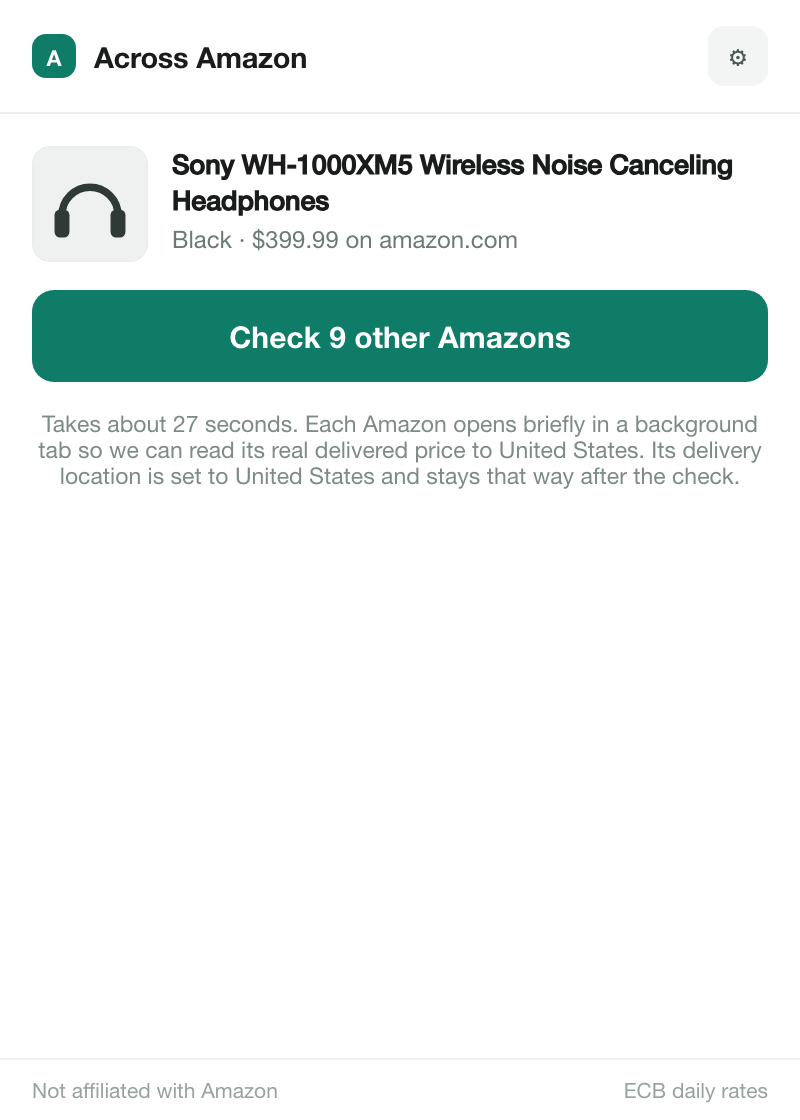
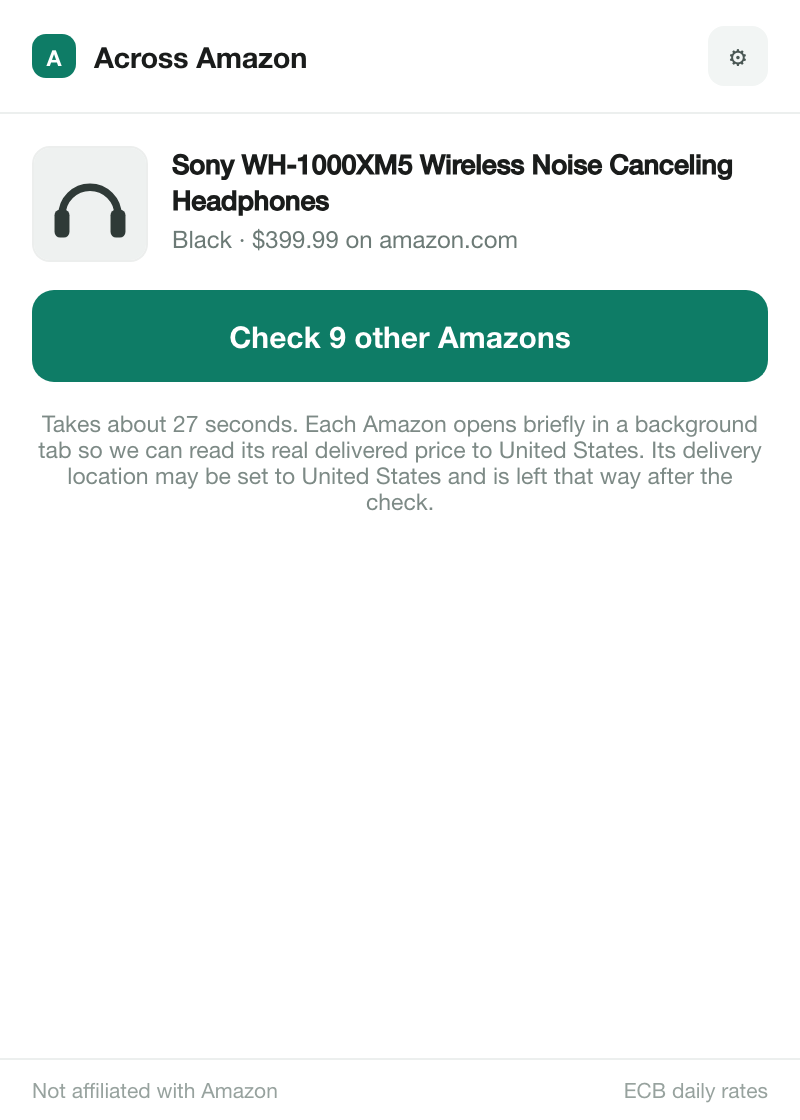
docs(popup): describe the delivery location hint as conditional

Changed region(s): [[0.0625, 0.4062, 0.9062, 0.4688]]

diff --git a/docs/popup.md b/docs/popup.md
@@ -33,7 +33,7 @@ When the popup opens it reads the page you are on and shows:
 - the product title and image
 - the variant it detected (here "Black") and the item price on the current marketplace
 - one button, **Check 9 other Amazons**. The number is how many marketplaces will be checked.
-- a time estimate of about 3 seconds per marketplace, and a note that each marketplace's delivery location will be [set to your destination](#your-destination-and-the-other-marketplaces) and stay that way after the check
+- a time estimate of about 3 seconds per marketplace, and, when the page's destination country is known, a note that each marketplace's delivery location may be [set to your destination](#your-destination-and-the-other-marketplaces) and is left that way after the check
 
 While the page is still being read, the popup shows "Reading this page…" in place of the product card.
 
